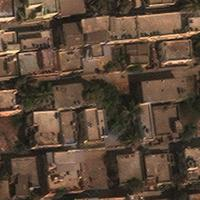
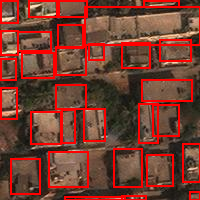
added more annotation info and example figures

diff --git a/docs/tfdsv4_placeholder.md b/docs/tfdsv4_placeholder.md
@@ -106,8 +106,8 @@ print(tfds.as_numpy({k:v for k,v in x.items() if k != "image"})) # {'label': 9}
 ### Example
 <!-- ![carla_obj_det_dev_rgb example](images/carla_obj_det_dev_rgb_example.png) -->
 <img src="images/carla_obj_det_dev_rgb_example.png" alt="carla_obj_det_dev_rgb example" width="250"/>
-<img src="images/carla_obj_det_dev_depth_example.png" alt="carla_obj_det_depth_rgb example" width="250"/>
-<img src="images/carla_obj_det_dev_mask_example.png" alt="carla_obj_det_mask_rgb example" width="250"/>
+<img src="images/carla_obj_det_dev_depth_example.png" alt="carla_obj_det_dev_depth example" width="250"/>
+<img src="images/carla_obj_det_dev_mask_example.png" alt="carla_obj_det_dev_mask example" width="250"/>
 
 - RGB, depth, and `mask`
 - boxes were drawn
@@ -157,6 +157,43 @@ print(tfds.as_numpy({k:v for k,v in x.items() if k != "image"})) # {'label': 9}
 - config: `None`
 - split keys: `["train", "val"]`
 
+### Example
+<!-- ![carla_obj_det_dev_rgb example](images/carla_obj_det_dev_rgb_example.png) -->
+<img src="images/carla_obj_det_train_rgb_example.png" alt="carla_obj_det_train_rgb example" width="250"/>
+<img src="images/carla_obj_det_train_depth_example.png" alt="carla_obj_det_train_depth example" width="250"/>
+
+- RGB, depth
+- boxes were drawn
+
+### TFDS Format: No Preprocessing
+```
+{'categories': {'id': array([1, 2, 3]),
+  'name': array([b'Pedestrian', b'Vehicle', b'TrafficLight'], dtype=object),
+  'supercategory': array([b'Pedestrian', b'Vehicle', b'TrafficLight'], dtype=object)},
+ 'images': {'file_name': array([b'config4.00002910.png', b'config4.00002910.png'], dtype=object),
+  'height': array([960, 960]),
+  'id': array([3478, 3478]),
+  'width': array([1280, 1280])},
+ 'objects': {'area': array([ 3474,   694,   114,   206,   122, 11360,   127,   219]),
+  'boxes': array([[0.49791667, 0.15390626, 0.5385417 , 0.26875   ],
+         [0.50208336, 0.621875  , 0.52916664, 0.6484375 ],
+         [0.49583334, 0.5210937 , 0.5072917 , 0.5445312 ],
+         [0.496875  , 0.5992187 , 0.5104167 , 0.61640626],
+         [0.5052083 , 0.71953124, 0.51979166, 0.74296874],
+         [0.45833334, 0.        , 0.56666666, 0.12734374],
+         [0.484375  , 0.2484375 , 0.5104167 , 0.25546876],
+         [0.496875  , 0.75625   , 0.53020835, 0.765625  ]], dtype=float32),
+  'id': array([40379, 40380, 40381, 40382, 40383, 40384, 40385, 40386]),
+  'image_id': array([3478, 3478, 3478, 3478, 3478, 3478, 3478, 3478]),
+  'is_crowd': array([False, False, False, False, False, False, False, False]),
+  'labels': array([2, 2, 2, 2, 2, 2, 1, 1])}}
+```
+- excluding `image` key
+- ***NO*** `patch_metadata` key
+- example `shape`: `[2, 960, 1280, 3]`
+- example `(min`, `max)`: `(0, 255)`
+- `boxes` format in `objects`: `[ymin, xmin, ymax, xmax]` normalized
+
 ## `carla_obj_det_test`
 - config: `None`
 - split keys: `["test"]`
@@ -164,6 +201,66 @@ print(tfds.as_numpy({k:v for k,v in x.items() if k != "image"})) # {'label': 9}
 ## `carla_over_obj_det_dev`
 - config: `None`
 - split keys: `["dev"]`
+
+### Example
+<!-- ![carla_obj_det_dev_rgb example](images/carla_obj_det_dev_rgb_example.png) -->
+<img src="images/carla_over_obj_det_dev_rgb_example.png" alt="carla_over_obj_det_dev_rgb example" width="250"/>
+<img src="images/carla_over_obj_det_dev_depth_example.png" alt="carla_over_obj_det_dev_depth example" width="250"/>
+<img src="images/carla_over_obj_det_dev_mask_example.png" alt="carla_over_obj_det_dev_mask example" width="250"/>
+
+- RGB, depth, and `mask`
+- boxes were drawn
+
+### TFDS Format: No Preprocessing
+```
+{'categories': {'id': array([1, 2]),
+  'name': array([b'Pedestrian', b'Vehicle'], dtype=object),
+  'supercategory': array([b'Pedestrian', b'Vehicle'], dtype=object)},
+ 'images': {'file_name': array([b'00002040.png', b'depth/00002040.png'], dtype=object),
+  'height': array([960, 960]),
+  'id': array([69734696, 69734696]),
+  'width': array([1280, 1280])},
+ 'objects': {'area': array([1869, 3543,  120,  107,  145,  102,  116,  130,  139,  149,  122,
+          154, 3893, 7951,  172]),
+  'boxes': array([[0.69375   , 0.52734375, 0.775     , 0.553125  ],
+         [0.65833336, 0.48359376, 0.7583333 , 0.51640624],
+         [0.44791666, 0.13359375, 0.45625   , 0.15234375],
+         [0.28541666, 0.21640626, 0.30208334, 0.23359375],
+         [0.16979167, 0.21640626, 0.19270833, 0.23046875],
+         [0.31875   , 0.228125  , 0.33645833, 0.2421875 ],
+         [0.7916667 , 0.228125  , 0.81145835, 0.24375   ],
+         [0.33229166, 0.1390625 , 0.34479168, 0.15859374],
+         [0.9447917 , 0.62890625, 0.97083336, 0.640625  ],
+         [0.946875  , 0.6921875 , 0.97291666, 0.7046875 ],
+         [0.43645832, 0.125     , 0.44583333, 0.14765625],
+         [0.44583333, 0.4046875 , 0.48020834, 0.41484374],
+         [0.47604167, 0.4375    , 0.5833333 , 0.471875  ],
+         [0.59791666, 0.38359374, 0.75208336, 0.4296875 ],
+         [0.953125  , 0.45      , 0.9947917 , 0.46015626]], dtype=float32),
+  'id': array([468, 469, 470, 471, 472, 473, 474, 475, 476, 477, 478, 479, 480,
+         481, 482]),
+  'image_id': array([69734696, 69734696, 69734696, 69734696, 69734696, 69734696,
+         69734696, 69734696, 69734696, 69734696, 69734696, 69734696,
+         69734696, 69734696, 69734696]),
+  'is_crowd': array([False, False, False, False, False, False, False, False, False,
+         False, False, False, False, False, False]),
+  'labels': array([2, 2, 1, 1, 1, 1, 1, 1, 1, 1, 1, 2, 2, 2, 2])},
+ 'patch_metadata': {'avg_patch_depth': 40.0118408203125,
+  'gs_coords': array([[438, 593],
+         [669, 591],
+         [672, 861],
+         [442, 863]], dtype=int32)}
+}
+```
+- excluding `image` key
+- excluding `mask` key from `patch_metadata`
+- example `shape`:
+  - `image`: `[2, 960, 1280, 3]`
+  - `mask`: `[960, 1280, 3]`
+- example `(min`, `max)`:
+  - `image`: `(0, 255)`
+  - `mask`: `(0, 255)`
+- `boxes` format in `objects`: `[ymin, xmin, ymax, xmax]` normalized
 
 ## `carla_over_obj_det_train`
 - config: `None`
@@ -178,10 +275,10 @@ print(tfds.as_numpy({k:v for k,v in x.items() if k != "image"})) # {'label': 9}
 - split keys: `["retinanet", "frcnn", "ssd"]`
 
 ## `dapricot_dev`
-Resolving with `load` errors
+Need to resolve `load` errors
 
 ## `dapricot_test`
-Resolving with `load` errors
+Need to resolve `load` errors
 
 ## `cifar10`
 - config: `None`
@@ -238,6 +335,8 @@ Resolving with `load` errors
 <!-- ![xview example](images/xview_example.png) -->
 <img src="images/xview_example.png" alt="xview example" width="200"/>
 
+- boxes were drawn
+
 ### TFDS Format: No Preprocessing
 ```
 {'objects': {'area': array([  99,  271,  124,  475, 4523, 1440,  623,  753,  775,  701,  252,
@@ -268,6 +367,7 @@ Resolving with `load` errors
 - value for `boxes` key is truncated in `objects`
 - example `shape`: `[200, 200, 3]`
 - example `(min`, `max)`: `(0, 255)`
+- `boxes` format in `objects`: `[ymin, xmin, ymax, xmax]` normalized
 
 ## `resisc45`
 - config: `None`
@@ -344,7 +444,7 @@ Resolving with `load` errors
 - excluding `image` key
 - example `shape`: `[427, 640, 3]`
 - example `(min`, `max)`: `(0, 255)`
-- `bbox` format: `[ymin, xmin, ymax, xmax]` normalized
+- `bbox` format in `objects`: `[ymin, xmin, ymax, xmax]` normalized
 
 ### Armory Expected Input Format
 
